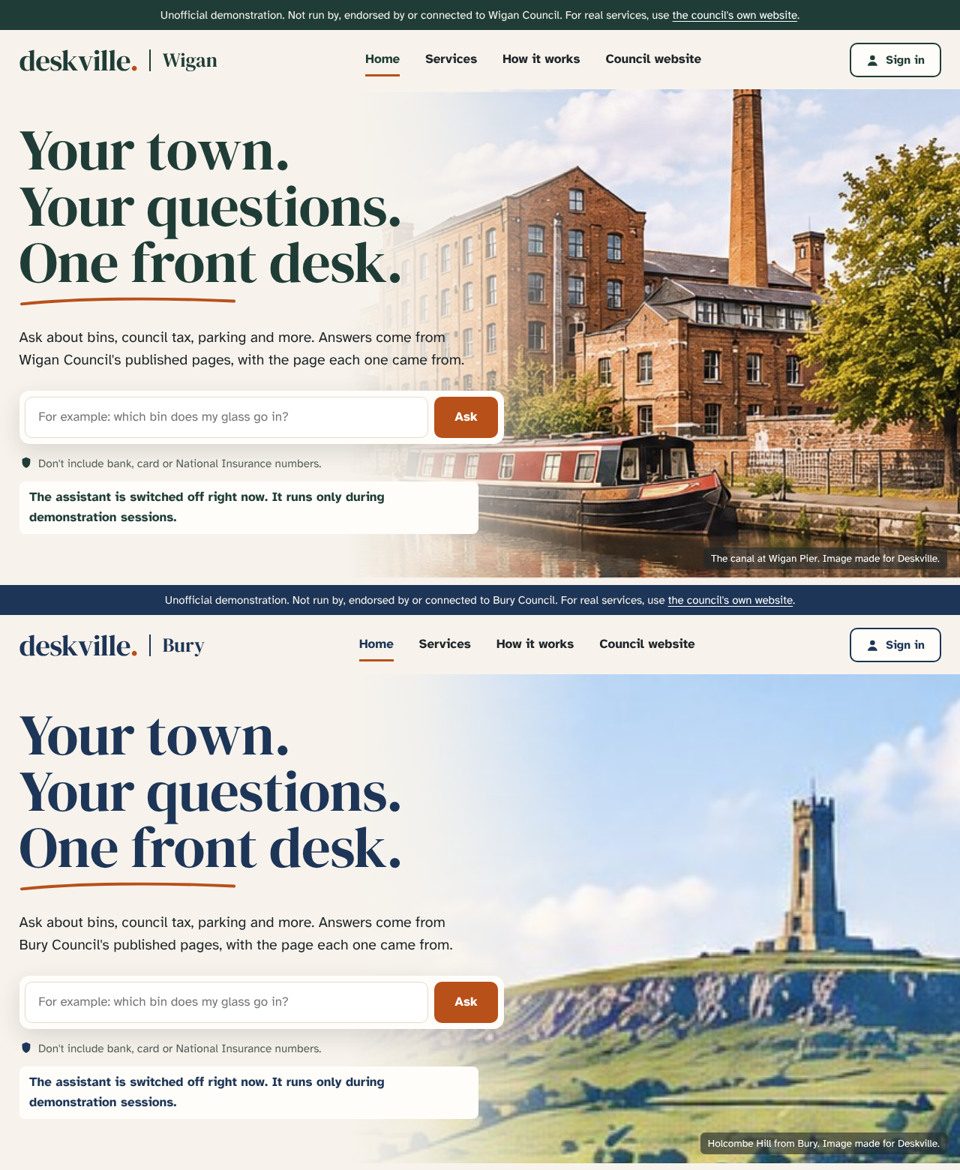
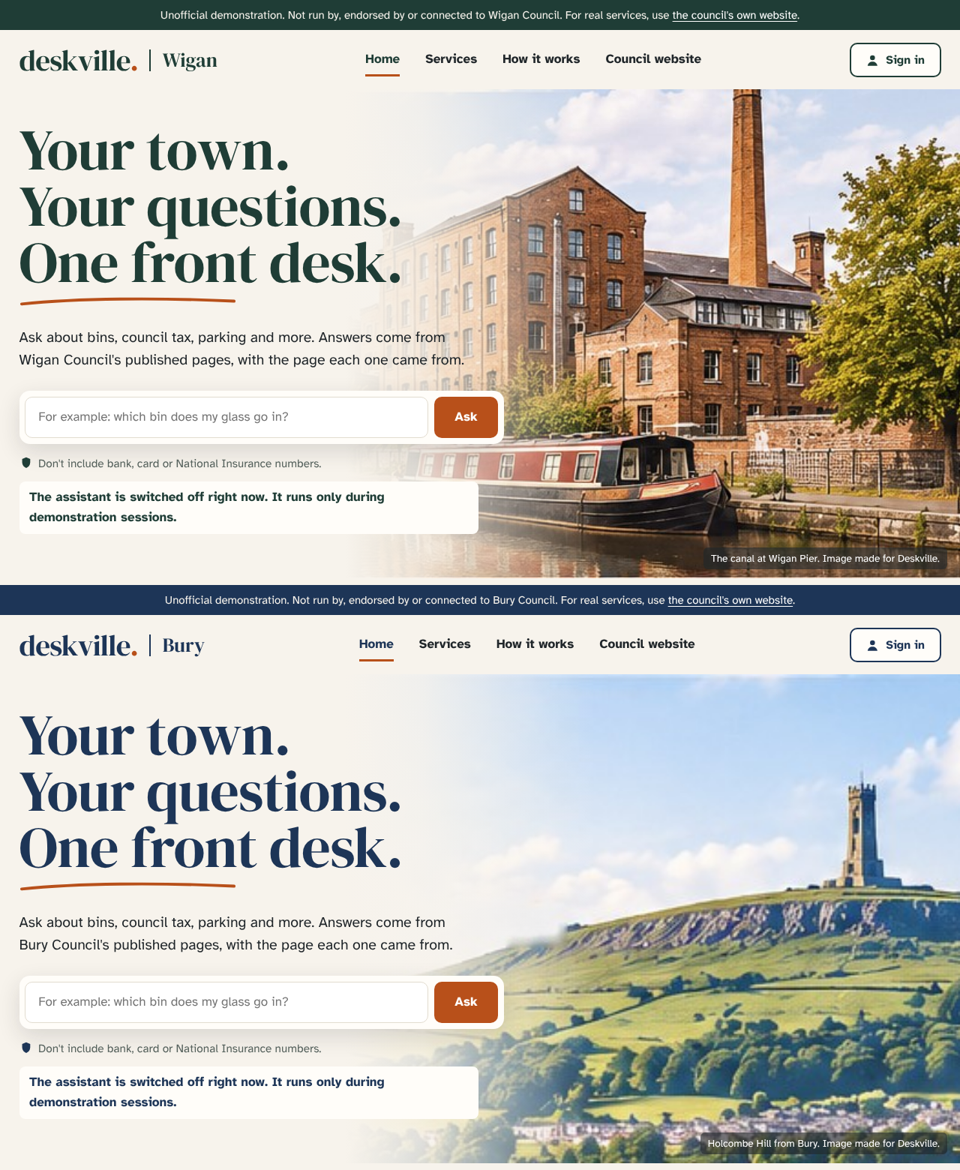
Layer 7c: hero images fit wide screens; Bury image without the mockup's lettering or invented building (#46)

Changed region(s): [[0.4375, 0.5846, 1.0, 1.0], [0.75, 0.5538, 0.8125, 0.5846]]

diff --git a/site/style.css b/site/style.css
@@ -57,7 +57,7 @@ svg { fill: none; stroke: currentColor; stroke-width: 1.8; stroke-linecap: round
 .btn-main:hover { background: #9a4114; }
 
 /* ---- hero: the town, full bleed, the words over the wash ---- */
-.hero { position: relative; min-height: 34rem; display: flex; align-items: center; overflow: hidden; margin-top: -1px; }
+.hero { position: relative; min-height: 34rem; display: flex; align-items: center; overflow: hidden; margin: -1px auto 0; max-width: 90rem; }
 .hero-art { position: absolute; inset: 0 0 0 auto; width: 64%; height: 100%; object-fit: cover; object-position: var(--art-position, center); }
 .hero-wash { position: absolute; inset: 0; background: linear-gradient(90deg, var(--paper) 0%, var(--paper) 36%, rgba(247, 243, 236, .86) 44%, rgba(247, 243, 236, 0) 62%); }
 .hero-copy { position: relative; z-index: 2; width: 100%; max-width: var(--wide); margin: 0 auto; padding: 2.5rem 1.5rem 3.5rem; }

diff --git a/site/councils.js b/site/councils.js
@@ -32,7 +32,7 @@ export const COUNCILS = {
     name: "Bury",
     site: "https://www.bury.gov.uk/",
     ink: "#1d3557", soft: "#e2e8f0",
-    art: "art/bury.jpg", artPosition: "center 8%",
+    art: "art/bury.jpg", artPosition: "right center",
     artAlt: "Holcombe Hill with Peel Tower on its summit, above the rooftops of the valley",
     artTitle: "Holcombe Hill from Bury",
     artText: "Peel Tower on Holcombe Hill, above the valley.",
